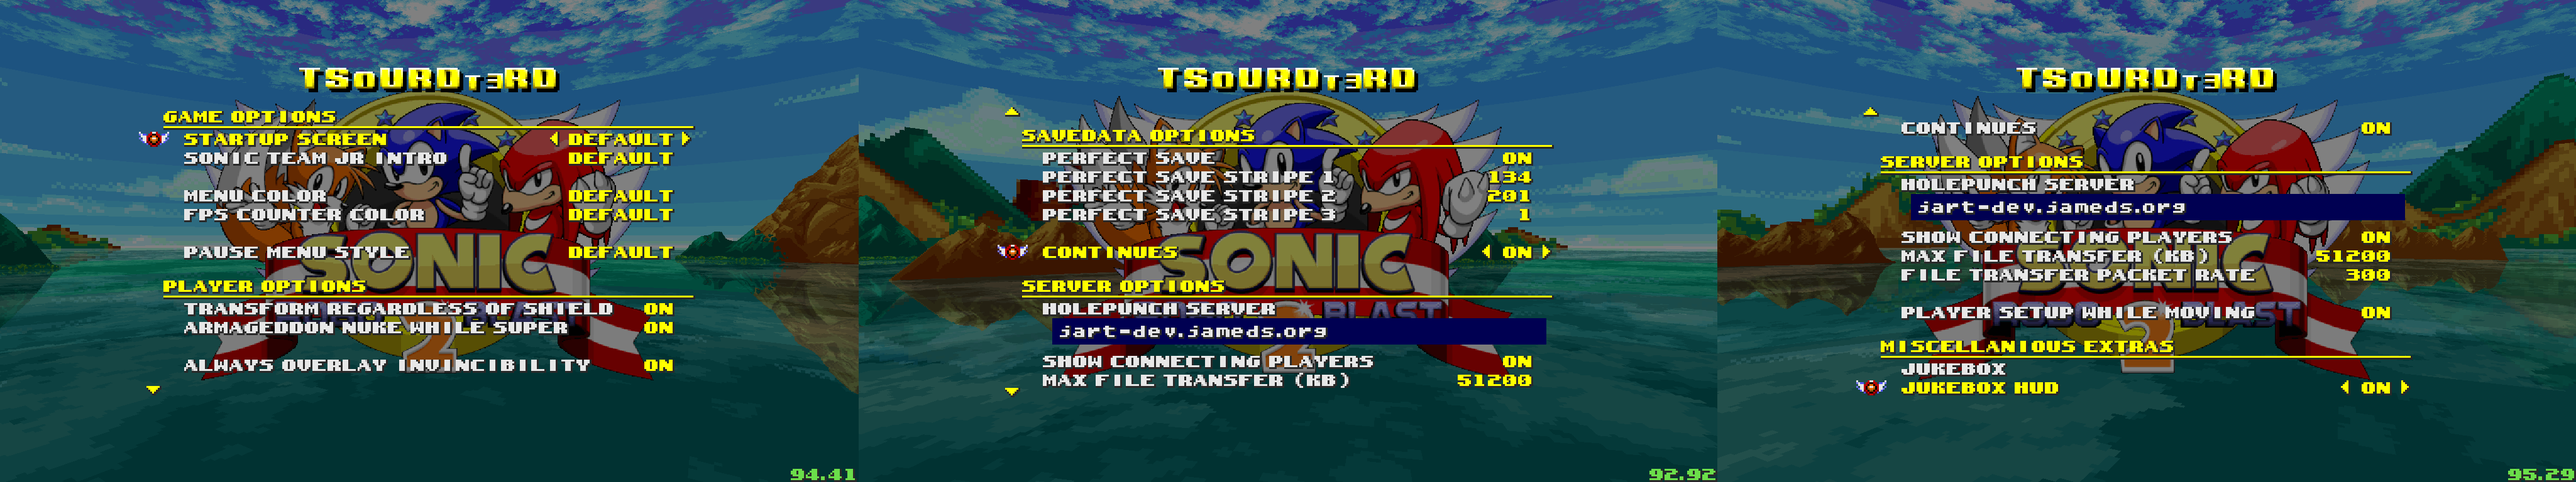
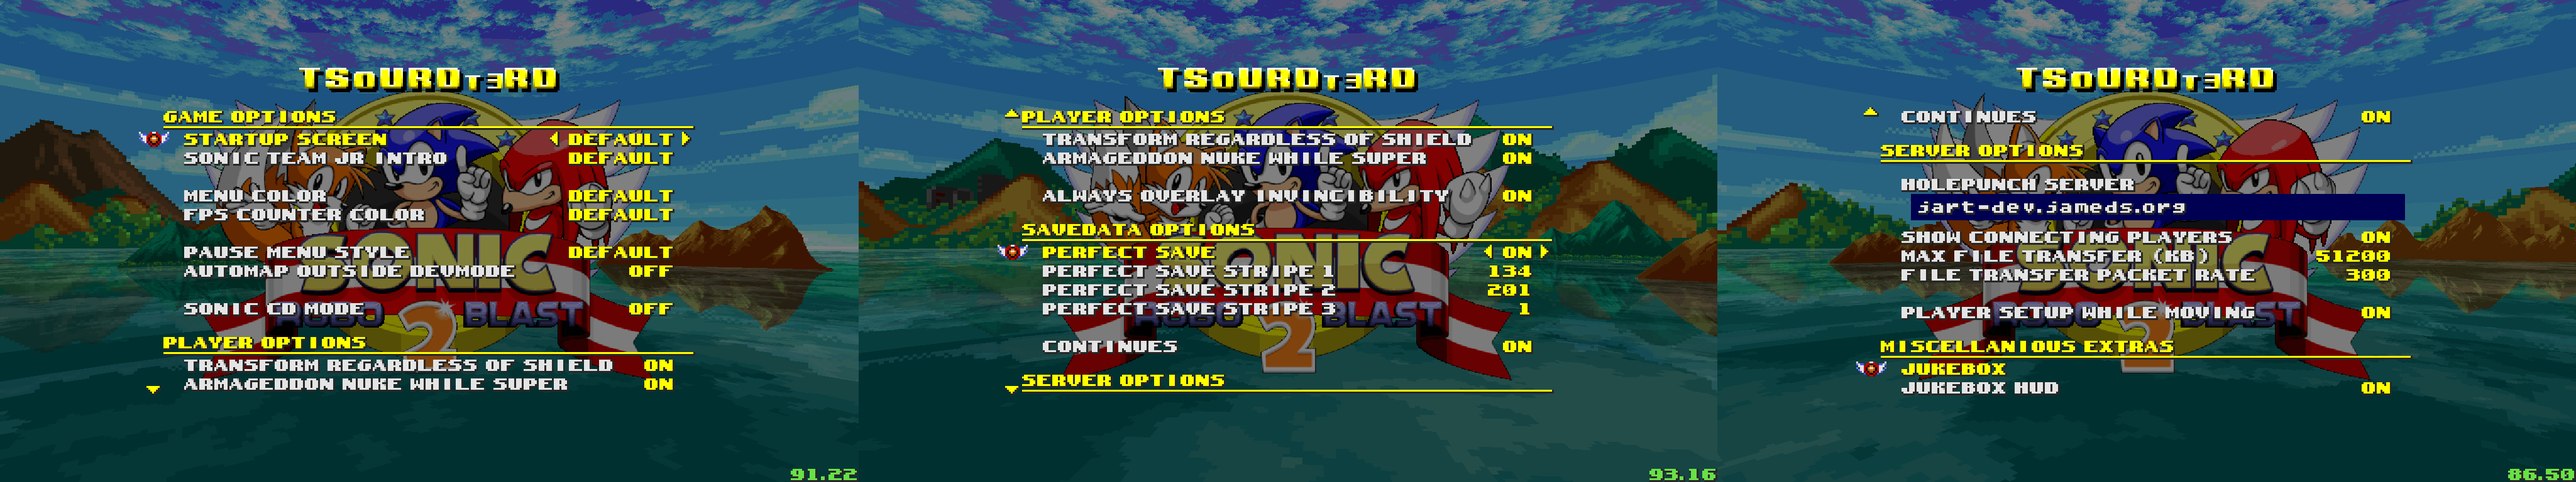
Fixed the Intermission Screen Earlier, Did Some Fun Stuff, and Added Some New Commands

diff --git a/src/f_finale.c b/src/f_finale.c
@@ -1245,7 +1245,7 @@ static const char *credits[] = {
 	"Dave \"DemonTomatoDave\" Bulmer",
 	"Paul \"Boinciel\" Clempson",
 	"\"Cyan Helkaraxe\"",
-	"Shane \"CobaltBW\" Ellis",
+	"Shane \"Clairebun\" Ellis",
 	"James \"SeventhSentinel\" Hall",
 	"Kepa \"Nev3r\" Iceta",
 	"Iestyn \"Monster Iestyn\" Jealous",
@@ -1304,17 +1304,19 @@ static const char *credits[] = {
 	"Colin \"Sonict\" Pfaff",
 	"Bill \"Tets\" Reed",
 	"",
-	"\1TSoURDt3rd",
+	"\1TSoURDt3rd Team",
 	"StarManiaKG \"Star\"",
+	"MarioMario \"Sapphire\"",
+	"Mini the Bunnyboy\"Talis\"",
 	"",
-	"\1TSoURDt3rd Emotional Support Crew",
-	"Speccy",
-	"Zeno/Uukoo \"Oreo\"",
-	"NARBluebear"
-	"Smiles \"Future Smiles the Fox\"",
-	"\"Team Comet\"",
+	"\1TSoURDt3rd Extras",
+	"Speccy - Emotional Support, Ideas",
+	"Zeno/Uukoo \"Oreo\" - Emotional Support",
+	"NARBluebear - Emotional Support",
+	"Smiles \"The Fox\" - Emotional Support",
+	"\"Team Comet\" - Emotional Support",
 	"",
-	"\1Vanilla SRB2 Special Thanks",
+	"\1Special Thanks",
 	"id Software",
 	"Doom Legacy Project",
 	"FreeDoom Project", // Used some of the mancubus and rocket launcher sprites for Brak
@@ -1460,7 +1462,7 @@ void F_CreditTicker(void)
 				default: credits_height += 12; break;
 			}
 		}
-		credits_height = 131*credits_height/80; // account for scroll speeds. This is a guess now, so you may need to update this if you change the credits length.
+		credits_height = 132*credits_height/80; // account for scroll speeds. This is a guess now, so you may need to update this if you change the credits length.
 	}
 
 	// Draw credits text on top

diff --git a/src/m_menu.c b/src/m_menu.c
@@ -606,7 +606,7 @@ consvar_t cv_fpscountercolor = CVAR_INIT ("fpscountercolor", "Default", CV_SAVE,
 static CV_PossibleValue_t pausestyle_t[] = {{0, "Default"}, {1, "Old-School"}, {0, NULL}};
 consvar_t cv_pausemenustyle = CVAR_INIT ("pausemenustyle", "Default", CV_SAVE, pausestyle_t, NULL);
 
-consvar_t cv_automapoutsidedevmode = CVAR_INIT ("automapoutsidedevmode", "On", CV_SAVE, CV_OnOff, NULL);
+consvar_t cv_automapoutsidedevmode = CVAR_INIT ("automapoutsidedevmode", "Off", CV_SAVE, CV_OnOff, NULL);
 
 consvar_t cv_perfectsave = CVAR_INIT ("perfectsave", "On", CV_SAVE|CV_CALL, CV_OnOff, STAR_PerfectSave_OnChange);
 
